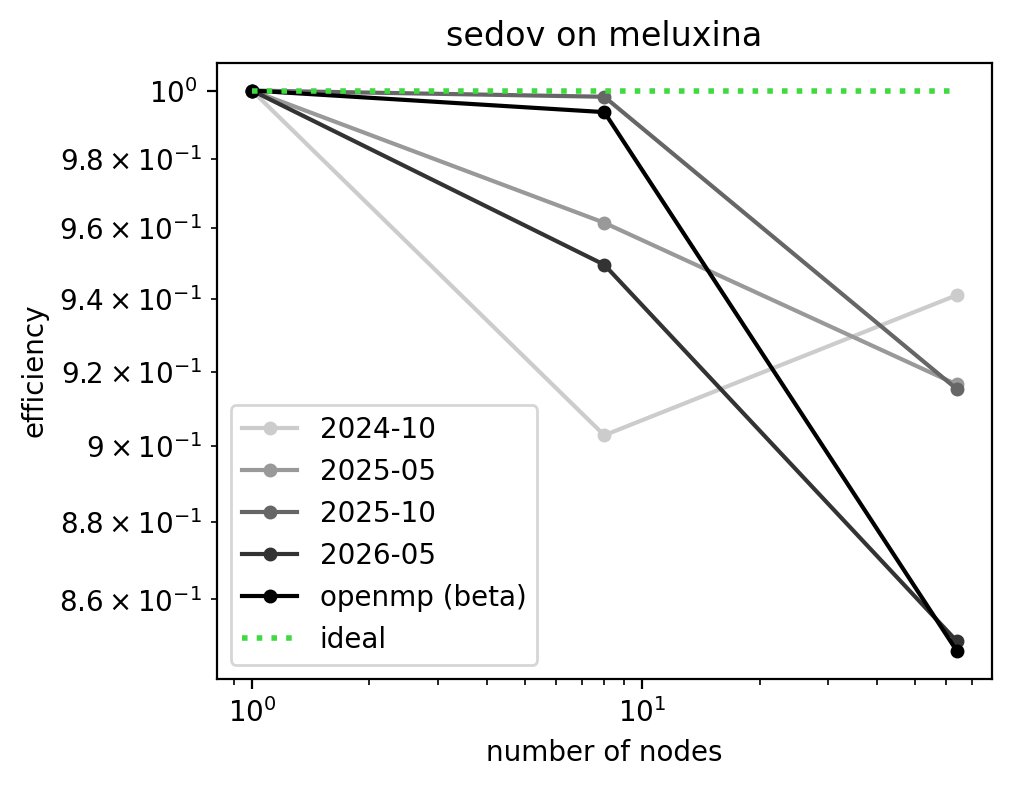
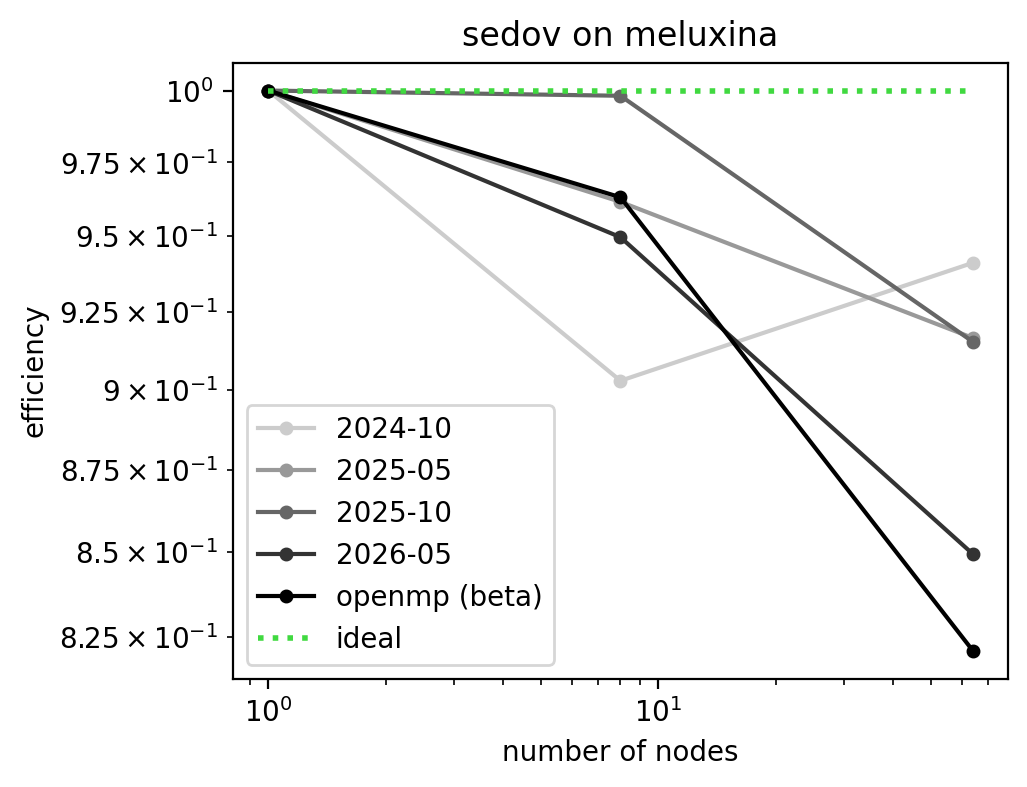
don't write parts in reports for which data is not available + refactor

diff --git a/analysis/report_scaling.py b/analysis/report_scaling.py
@@ -1,4 +1,5 @@
-''' TODO write description
+''' Construct a markdown page gathering the benchmark results
+    from a given benchmark setup on a given cluster 
 '''
 
 from tagged_data import *
@@ -11,20 +12,12 @@ from openmp_config_grid import plot_mpi_omp_grid
 from memory import plot_memory, table_memory
 import argparse
 
-#---------- INPUT ------------
 
-# Get command line arguments
-parser = argparse.ArgumentParser(
-    description='Update benchmark page'
-)
-parser.add_argument('-c', '--cluster', required=True, help='Cluster name')
-parser.add_argument('-b', '--benchmark', required=True, help='Benchmark setup name')
-args = parser.parse_args()
+#---------- Text of the markdown page ------------
 
-# We always want to display the total time for this page
-timer='total'
 
-md = f"""# Benchmark: {args.benchmark} on {args.cluster}
+def text_section_intro(args):
+    return f"""# Benchmark: {args.benchmark} on {args.cluster}
 
 Benchmark description: [{args.benchmark}](../setups/{args.benchmark}/description.md)
 
@@ -38,25 +31,9 @@ On this page:
 
 """
 
-resos = get_resolutions(args.benchmark)
 
-weak_scaling_map = get_weak_scaling_config2(args.benchmark)
-
-######### In this part, we deal with the latest official release #########
-benchmark, release_label = load_latest_release_data(args.cluster, args.benchmark, timer)
-
-#--------- Strong and weak scaling combo figure ------------
-
-figfile = f'../results/images/scaling_combo_{args.benchmark}_{timer}_{args.cluster}.png'
-plot_scaling_combo_inverse(
-        benchmark,
-        resos,
-        weak_scaling_map,
-        outname=figfile
-)
-
-# Assemble markdown page string
-md += f"""## Strong and weak scaling of the latest code release ({release_label})
+def text_section_scaling_combo(release_label,figfile):
+    return f"""## Strong and weak scaling of the latest code release ({release_label})
 
 ![Scaling]({figfile})
 
@@ -66,18 +43,9 @@ Dotted lines show ideal scaling.
 
 """
 
-######### In this part, we deal with the time evolution between versions #########
-benchmarks, release_labels = load_release_data(args.cluster, args.benchmark, timer)
-reso = resos[-1] # we show only the highest resolution
 
-#--------- Execution time evolution ------------
-
-figfile = f'../results/images/evo_exectime_{args.benchmark}_{reso}_{timer}_{args.cluster}.png'
-plot_execution_time_multinode(benchmarks, release_labels, reso, outname=figfile)
-
-table_md = table_execution_time(benchmarks, release_labels, reso, fmt='markdown')
-
-md += f"""## Evolution of execution time with code version
+def text_section_execution_time(figfile, table_md):
+    return f"""## Evolution of execution time with code version
 
 ![Evolution execution time]({figfile})
 
@@ -93,14 +61,8 @@ the time listed is for runs with MPI-only using the full compute node.
 """
 
 
-#--------- Strong scaling evolution ------------
-
-figfile = f'../results/images/strong_scaling_{args.benchmark}_{reso}_{timer}_{args.cluster}.png'
-plot_strong_scaling(benchmarks, release_labels, reso, outname=figfile)
-
-table_md = table_strong_scaling(benchmarks, release_labels, reso, fmt='markdown')
-
-md += f"""## Strong scaling evolution
+def text_section_strong_scaling(figfile, table_md):
+    return f"""## Strong scaling evolution
 
 ![Strong scaling]({figfile})
 
@@ -116,17 +78,9 @@ using the full compute node.
 
 """
 
-#--------- Weak scaling evolution ------------
 
-nodes, resos = get_weak_scaling_config(args.benchmark)
-
-figfile = f'../results/images/weak_scaling_{args.benchmark}_{timer}_{args.cluster}.png'
-plot_weak_scaling(benchmarks, release_labels, nodes, resos, outname=figfile)
-
-table_md = table_weak_scaling(benchmarks, release_labels, nodes, resos, fmt='markdown')
-
-
-md += f"""## Weak scaling evolution
+def text_section_weak_scaling(figfile, table_md):
+    return f"""## Weak scaling evolution
 
 ![Weak scaling]({figfile})
 
@@ -142,28 +96,10 @@ using the full compute node.
 """
 
 
-######### In this part, we deal with the latest OpenMP version #########
-data = load_latest_openmp_data(args.cluster, args.benchmark, timer)
-
-md += f"""## OpenMP configuration guidelines
-
-""" 
-
-#--------- MPI-OpenMP config grid for execution time on 1 node ------------
-
-for reso in resos:
-
-    figfile_grid_omp = f'../results/images/mpi_omp_grid_{args.benchmark}_{reso}_{timer}_{args.cluster}.png'
-    error = plot_mpi_omp_grid(data, reso, 
-                        fig_name=figfile_grid_omp,
-                        show_overhead=False)
-    if not error:
-        md += f"""![MPI-OMP]({figfile_grid_omp})
-
-"""
+def text_section_ompmpi_grid(data):
+    return f"""## OpenMP configuration guidelines
     
-md += f"""
-These figures give inside in the behaviour of OpenMP for different resolutions of this setup.
+The figures below give inside in the behaviour of OpenMP for different resolutions of this setup.
 Shows is which MPI - OpenMP configuration is most optimal in terms of execution time.
 The data is for the latest OpenMP version 
 (commit {data[0]['metadata']['commit']} on branch {data[0]['metadata']['branch']})
@@ -171,16 +107,9 @@ The data is for the latest OpenMP version
 
 """ 
 
-#--------- Memory ------------
 
-reso = resos[-1]
-
-filename = f'../results/images/memory_{args.benchmark}_{reso}_{args.cluster}.png'
-plot_memory(data, reso, outname=filename)
-
-table_md = table_memory(data, reso, fmt='markdown')
-
-md += f"""## Memory usage
+def text_section_memory(filename,table_md):
+    return f"""## Memory usage
 
 ![Memory usage]({filename})
 
@@ -205,7 +134,90 @@ Unless otherwise stated, data is for runs using full compute nodes.
 """
 
 
-#--------- Write markdown page ------------
+#---------- INPUT ------------
+
+# Get command line arguments
+parser = argparse.ArgumentParser(
+    description='Update benchmark page'
+)
+parser.add_argument('-c', '--cluster', required=True, help='Cluster name')
+parser.add_argument('-b', '--benchmark', required=True, help='Benchmark setup name')
+args = parser.parse_args()
+
+# We always want to display the total time for this page
+timer='total'
+# get list of what resolutions are available for this benchmark
+resos = get_resolutions(args.benchmark)
+# get list of which node-resolution combinations to use for weak scaling
+weak_scaling_map = get_weak_scaling_config2(args.benchmark)
+
+# Write text with table of content
+md = text_section_intro(args)
+
+
+#--------- In this part, we deal with the latest official release ------------
+
+benchmark, release_label = load_latest_release_data(args.cluster, args.benchmark, timer)
+
+if len(benchmark)>0:
+
+    # Strong and weak scaling combo figure
+    figfile = f'../results/images/scaling_combo_{args.benchmark}_{timer}_{args.cluster}.png'
+    plot_scaling_combo_inverse(benchmark,resos,weak_scaling_map, outname=figfile)
+    md += text_section_scaling_combo(release_label,figfile)
+
+
+#--------- In this part, we deal with the time evolution between versions ------------
+
+benchmarks, release_labels = load_release_data(args.cluster, args.benchmark, timer)
+reso = resos[-1] # we show only the highest resolution
+
+if len(benchmarks)>0:
+
+    # Execution time evolution
+    figfile = f'../results/images/evo_exectime_{args.benchmark}_{reso}_{timer}_{args.cluster}.png'
+    plot_execution_time_multinode(benchmarks, release_labels, reso, outname=figfile)
+    table_md = table_execution_time(benchmarks, release_labels, reso, fmt='markdown')
+    md += text_section_execution_time(figfile, table_md)
+
+    # Strong scaling evolution
+    figfile = f'../results/images/strong_scaling_{args.benchmark}_{reso}_{timer}_{args.cluster}.png'
+    plot_strong_scaling(benchmarks, release_labels, reso, outname=figfile)
+    table_md = table_strong_scaling(benchmarks, release_labels, reso, fmt='markdown')
+    md += text_section_strong_scaling(figfile, table_md)
+
+    # Weak scaling evolution
+    nodes, resos = get_weak_scaling_config(args.benchmark)
+    figfile = f'../results/images/weak_scaling_{args.benchmark}_{timer}_{args.cluster}.png'
+    plot_weak_scaling(benchmarks, release_labels, nodes, resos, outname=figfile)
+    table_md = table_weak_scaling(benchmarks, release_labels, nodes, resos, fmt='markdown')
+    md += text_section_weak_scaling(figfile, table_md)
+
+
+#--------- In this part, we deal with the latest OpenMP version ------------
+
+data = load_latest_openmp_data(args.cluster, args.benchmark, timer)
+
+if len(data)>0:
+
+    # MPI-OpenMP config grid for execution time on 1 node
+    md += text_section_ompmpi_grid(data)
+    for reso in resos:
+        figfile_grid_omp = f'../results/images/mpi_omp_grid_{args.benchmark}_{reso}_{timer}_{args.cluster}.png'
+        error = plot_mpi_omp_grid(data, reso, fig_name=figfile_grid_omp, show_overhead=False)
+        if not error:
+            md += f"""![MPI-OMP]({figfile_grid_omp})
+"""
+
+    # Memory
+    reso = resos[-1]
+    filename = f'../results/images/memory_{args.benchmark}_{reso}_{args.cluster}.png'
+    plot_memory(data, reso, outname=filename)
+    table_md = table_memory(data, reso, fmt='markdown')
+    md += text_section_memory(filename,table_md)
+
+
+#--------- Output markdown page ------------
 
 outfile = f"../results/results_{args.benchmark}_{args.cluster}.md"
 with open(outfile, 'w') as f:

diff --git a/analysis/tagged_data.py b/analysis/tagged_data.py
@@ -19,28 +19,33 @@ def load_release_data(cluster, test, timer='total'):
 
     data = add_data([], bench_home+'/'+cluster+'/'+'benchmark_dev_2024-10-17_7308417b/',
                     test, which=timer)
-    release_labels.append("2024-10")
-    benchmarks.append(data)
+    if len(data)>0:
+        release_labels.append("2024-10")
+        benchmarks.append(data)
 
     data = add_data([], bench_home+'/'+cluster+'/'+'benchmark_dev_2025-05-21_2d87442e/',
                     test, which=timer)
-    release_labels.append("2025-05")
-    benchmarks.append(data)
+    if len(data)>0:
+        release_labels.append("2025-05")
+        benchmarks.append(data)
 
     data = add_data([], bench_home+'/'+cluster+'/'+'benchmark_dev_2025-10-03_456b33e2/',
                     test, which=timer)
-    release_labels.append("2025-10")
-    benchmarks.append(data)
+    if len(data)>0:
+        release_labels.append("2025-10")
+        benchmarks.append(data)
 
     data = add_data([], bench_home+'/'+cluster+'/'+'benchmark_dev_2026-05-20_7050a55b/',
                    test, which=timer)
-    release_labels.append("2026-05")
-    benchmarks.append(data)
+    if len(data)>0:
+        release_labels.append("2026-05")
+        benchmarks.append(data)
 
     # current development
     data = load_latest_openmp_data(cluster, test, timer)
-    release_labels.append("openmp (beta)")
-    benchmarks.append(data)
+    if len(data)>0:
+        release_labels.append("openmp (beta)")
+        benchmarks.append(data)
 
     return benchmarks, release_labels
 

diff --git a/analysis/openmp_config_grid.py b/analysis/openmp_config_grid.py
@@ -110,7 +110,7 @@ if __name__ == '__main__':
     data = load_latest_openmp_data(args.cluster, args.benchmark, args.timer)
 
     errorcode = plot_mpi_omp_grid(data, args.reso, 
-                      fig_name=f'images/mpi_omp_grid_{args.benchmark}_{args.reso}_{args.timer}_{args.cluster}.png',
+                      fig_name=f'mpi_omp_grid_{args.benchmark}_{args.reso}_{args.timer}_{args.cluster}.png',
                       show_overhead=False)
 
 #python openmp_config_grid.py -c meluxina -b sedov -r 1024

diff --git a/results/results_sedov_meluxina.md b/results/results_sedov_meluxina.md
@@ -76,26 +76,22 @@ using the full compute node.
 
 | nodes | resolution | 2024-10 | 2025-05 | 2025-10 | 2026-05 | openmp (beta) |
 |---|---|---|---|---|---|---|
-| 1 | 256 | 1.000  | 1.000  | 1.000  | 1.000  | 1.000 (MPI=32 OMP=4) |
-| 8 | 512 | 0.903  | 0.962  | 0.998  | 0.950  | 0.994 (MPI=32 OMP=4) |
-| 64 | 1024 | 0.941  | 0.917  | 0.915  | 0.849  | 0.847 (MPI=64 OMP=2) |
+| 1 | 256 | 1.000  | 1.000  | 1.000  | 1.000  | 1.000 (MPI=8 OMP=16) |
+| 8 | 512 | 0.903  | 0.962  | 0.998  | 0.950  | 0.963 (MPI=32 OMP=4) |
+| 64 | 1024 | 0.941  | 0.917  | 0.915  | 0.849  | 0.821 (MPI=64 OMP=2) |
 
 
 ## OpenMP configuration guidelines
-
-![MPI-OMP](../results/images/mpi_omp_grid_sedov_256_total_meluxina.png)
-
-![MPI-OMP](../results/images/mpi_omp_grid_sedov_512_total_meluxina.png)
-
-![MPI-OMP](../results/images/mpi_omp_grid_sedov_1024_total_meluxina.png)
-
-
-These figures give inside in the behaviour of OpenMP for different resolutions of this setup.
+    
+The figures below give inside in the behaviour of OpenMP for different resolutions of this setup.
 Shows is which MPI - OpenMP configuration is most optimal in terms of execution time.
 The data is for the latest OpenMP version 
 (commit e9846974 on branch openmp)
 , corresponding to the version used for the previous figures.
 
+![MPI-OMP](../results/images/mpi_omp_grid_sedov_256_total_meluxina.png)
+![MPI-OMP](../results/images/mpi_omp_grid_sedov_512_total_meluxina.png)
+![MPI-OMP](../results/images/mpi_omp_grid_sedov_1024_total_meluxina.png)
 ## Memory usage
 
 ![Memory usage](../results/images/memory_sedov_1024_meluxina.png)
